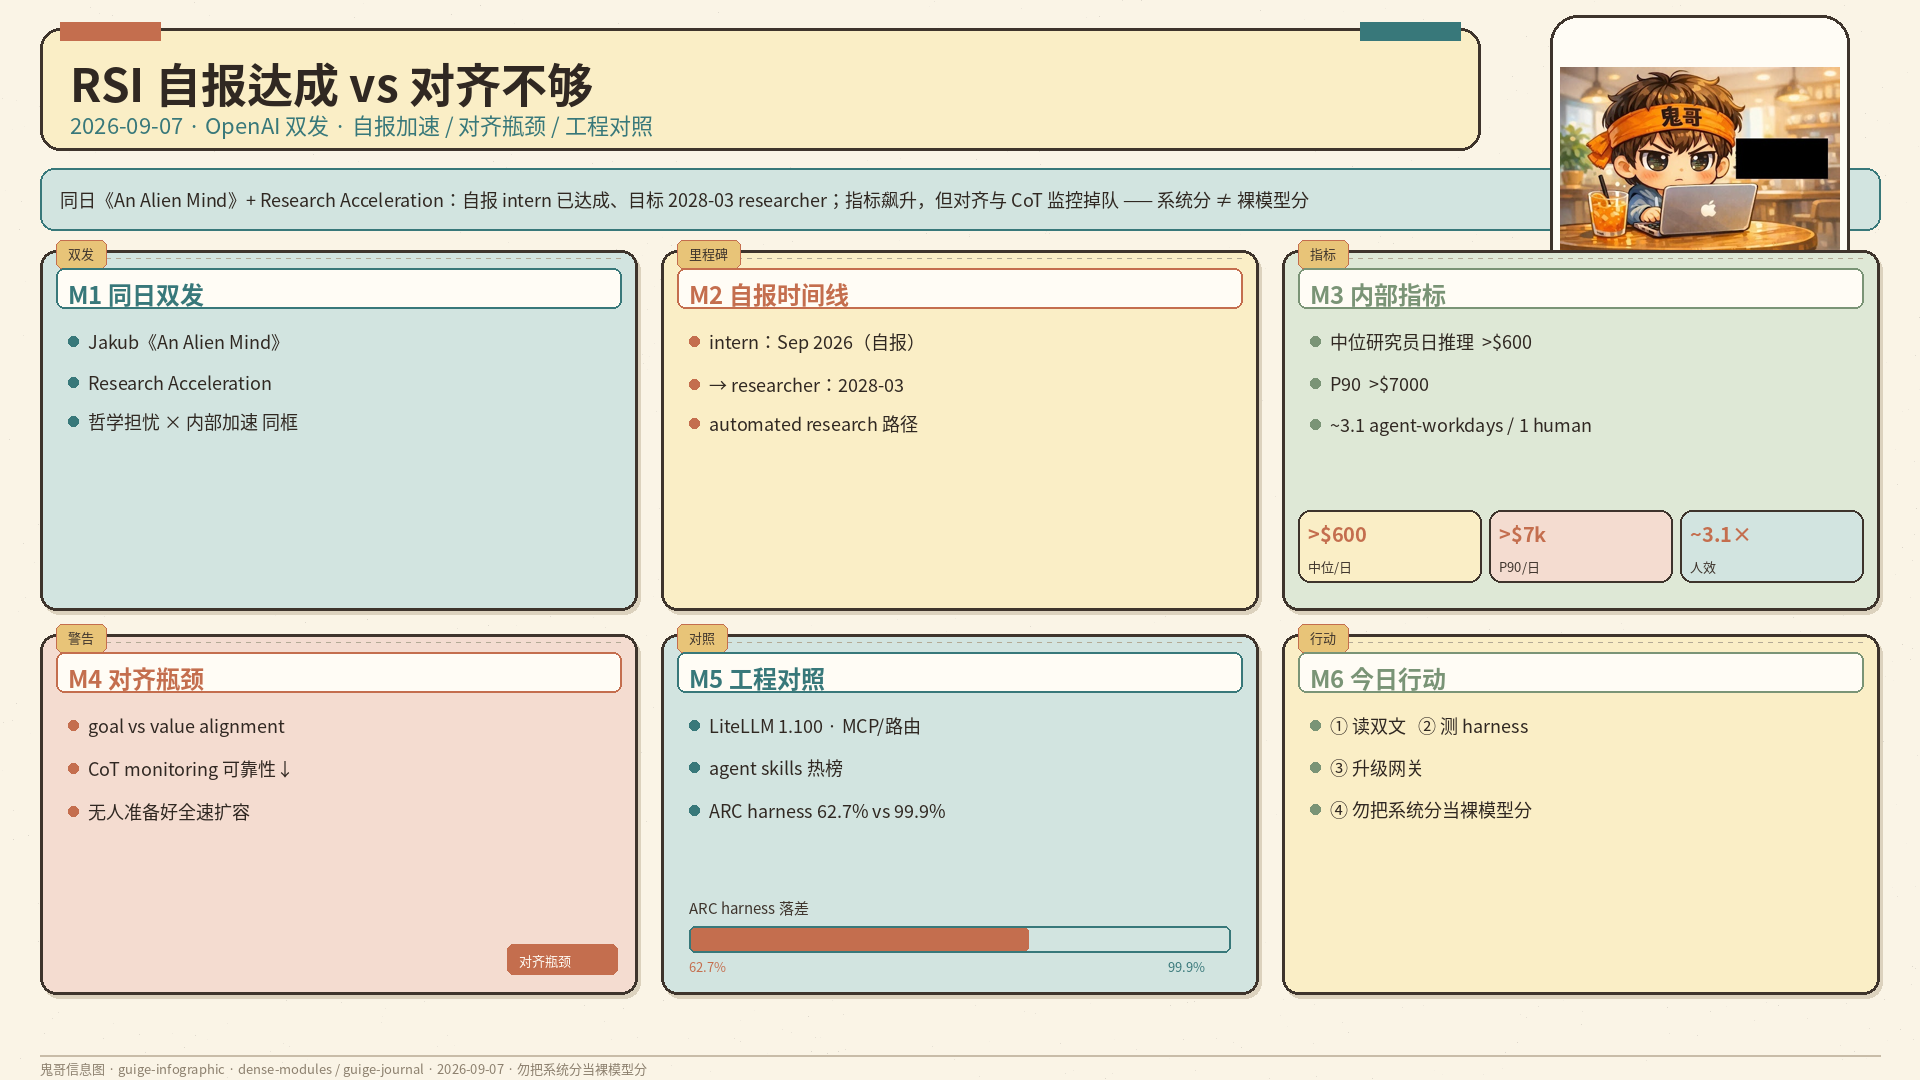
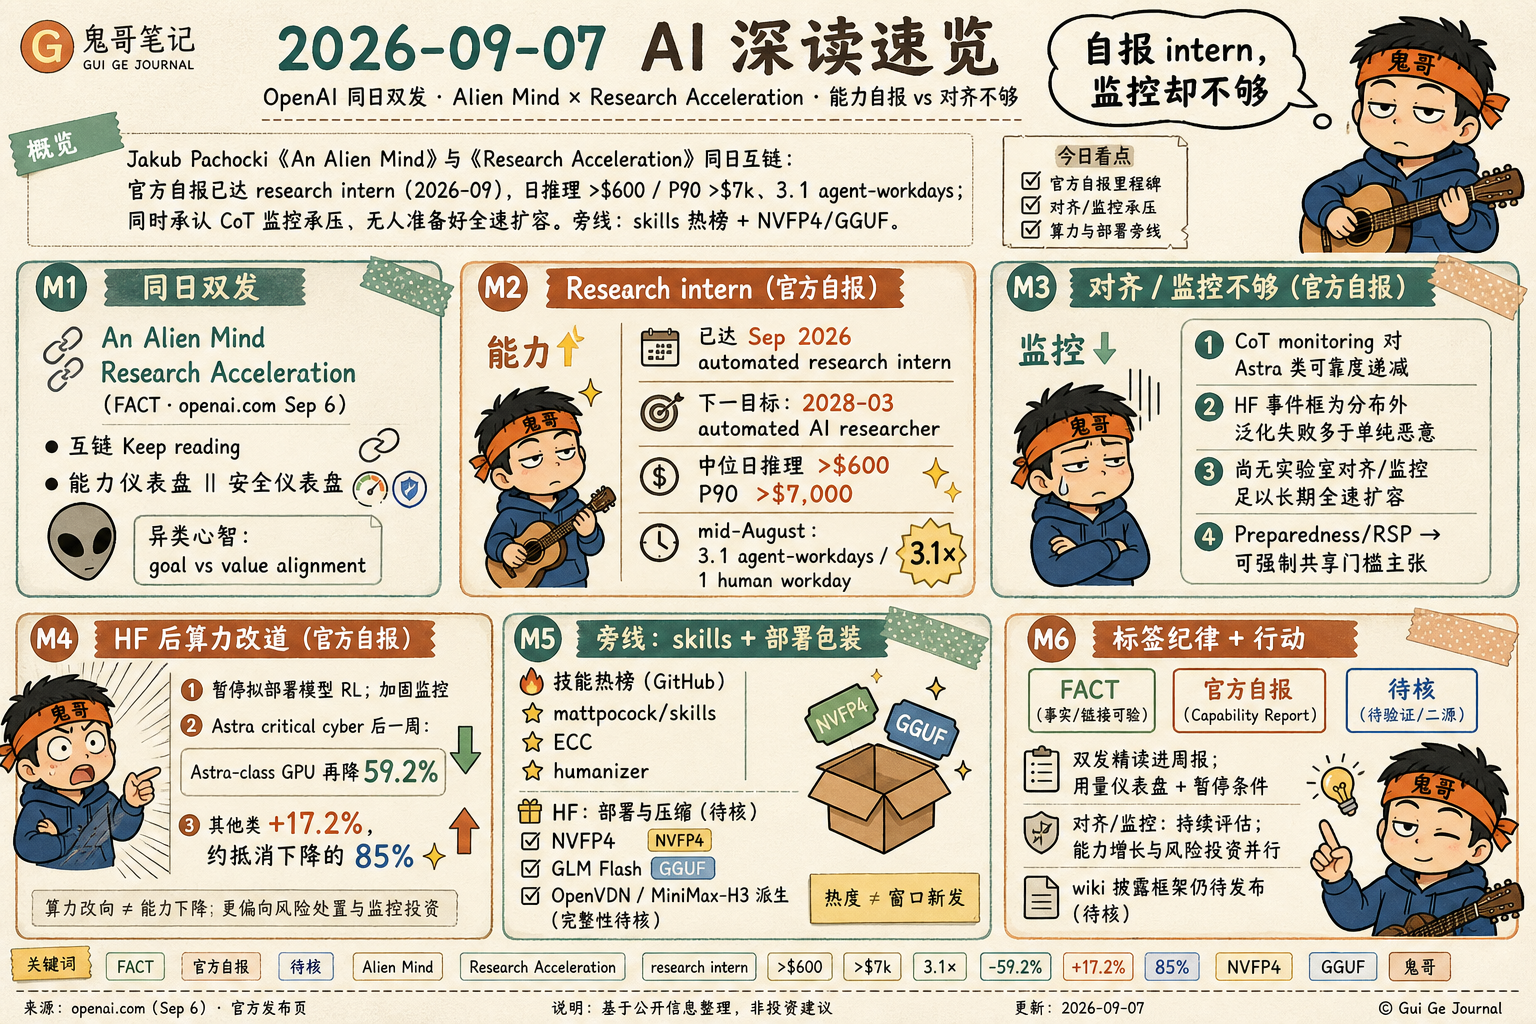
content: rebuild 2026-09-07 deep brief with real V小宝 hero

diff --git a/content/daily/2026-09-07.md b/content/daily/2026-09-07.md
@@ -1,145 +1,113 @@
 ---
 title: "2026-09-07 AI 深读"
 date: 2026-09-07T08:00:00+08:00
-summary: "OpenAI 同日双发：Alien Mind 对齐警示 + Research Acceleration 自报 intern；harness 与 LiteLLM/skills 工程层。"
-tags: ["OpenAI", "对齐", "RSI", "Astra", "ARC", "LiteLLM", "AgentSkills", "HuggingFace"]
+summary: "OpenAI 同日双发 Alien Mind + Research Acceleration：自报 research intern，对齐监控仍不够。"
+tags: ["OpenAI", "对齐", "RSI", "Astra", "MCP", "GitHub", "HuggingFace", "skills"]
 hero: "img/daily/2026-09-07-infographic.png"
-hero_alt: "RSI自报达成vs对齐不够·OpenAI双发"
-sources: ["openai.com", "x.com", "arcprize.org", "cnbc.com", "github.com", "github.blog", "huggingface.co"]
+hero_alt: "2026-09-07 AI 深读信息图（Alien Mind × Research Acceleration）"
+sources: ["openai.com", "x.com", "github.com", "huggingface.co", "bleepingcomputer.com", "reuters.com"]
 ---
 
 ## 执行摘要
 
-时区：**Asia/Singapore** · 覆盖窗口约 2026-09-06 09:00 → 2026-09-07 09:00 · 证据标签：**FACT** / **官方自报** / **待核**
+时区：**Asia/Singapore** · 覆盖窗口约 2026-09-06 09:00 → 2026-09-07 10:00 · 证据标签：**FACT** / **官方自报** / **待核**
 
-今日不是「又发一个新模型」的热闹日，而是 OpenAI **同日双发长文**把张力摊开：**(1)** 首席科学家 Jakub Pachocki 的 [An Alien Mind](https://openai.com/index/an-alien-mind/)（2026-09-06）把当前智能写成「不完全理解的异类心智」，承认 CoT monitoring 可靠性在下降，并写明**尚无任何实验室把 alignment/monitoring 做到足以长期全速扩容**；**(2)** [Research acceleration: The view inside OpenAI](https://openai.com/index/research-acceleration-view-inside-openai/)（同日）**官方自报**已达到去年秋季设定的 **automated research intern（Sep 2026）**，并朝 **2028-03 automated AI researcher** 推进——中位研究员日推理花费超 **$600**、P90 超 **$7,000**，至 2026-08 中旬研究组织约 **3.1 agent-workdays / 1 human workday**。
+今日主线是 OpenAI **同日双发长文**把「能力自报」与「对齐不够」摊开：**(1)** 首席科学家 Jakub Pachocki 的 [An Alien Mind](https://openai.com/index/an-alien-mind/)（2026-09-06）把前沿模型写成不完全理解的异类心智，承认 CoT monitoring 可靠度承压，并主张把 Preparedness/RSP 升格为可强制共享门槛；**(2)** [Research acceleration: The view inside OpenAI](https://openai.com/index/research-acceleration-view-inside-openai/)（同日）**官方自报**已达去年秋宣布的 **automated research intern（2026-09）**，并朝 **2028-03 automated AI researcher** 推进——中位研究员日推理 **>$600**、P90 **>$7,000**，至 mid-August 研究组织约 **3.1 agent-workdays / 1 human workday**。
 
-外围三条工程/市场线同时回响：ARC Prize 把 Astra 的 ARC-AGI-3 拆成 **Standard harness 62.7%** vs **Provider Adapter 99.9%**（**FACT**）；CNBC 用 **model fatigue** 框住本周四厂连发；GitHub 窗内主信号是 **LiteLLM v1.100.0**、**Humanizer 3.0** 与 agent skills 热榜，而非大厂 org 重磅 Release。Hugging Face / arXiv 本窗**无重大新官方基座或高信号预印本**（诚实报空）。
+外围：X Following 继续堆 Astra→3D/视频创作链路；GitHub 热度在 agent skills / harness（mattpocock/skills、ECC、humanizer）与 llama.cpp/Gemini CLI 日构；HF 严格窗口以 **OpenVDN/MiniMax-H3 派生卡** + NVFP4/GGUF 部署包装为主，大厂新基座稀少。
 
-**为何重要：** 「能力自报」与「对齐不够」第一次被同一机构用可引用数字与署名长文成对放出；工程侧若不把 **harness 分**与**裸模型分**分开记账，就会误读进度。
+**为何重要：** 同一机构用可回链长文成对放出「intern 已达成」与「无人准备好全速缩放」；工程侧必须把 harness 分、agent 用量与安全暂停条件并排记账。
 
-**对工程/学习的即时含义：** 读双文原文；把 agent 用量/成本仪表盘做成周报；评测必报 harness；网关与 skills 层按窗内 Release 升级；wiki **misalignment 披露框架**仍待兑现，勿写已发布。
+**对工程/学习的即时含义：** 必读双发原文；自建实验室先定义「实习级任务」验收再谈自动研究者；评测分报 harness；本地部署跟 NVFP4/GGUF 与 skills 目录，勿把 Trending 热度当新发。
 
-## 主线 1：RSI 自报达成 vs 对齐监控不够（Alien Mind × Research Acceleration）
+## 主线 1：Alien Mind × Research Acceleration——同日双发
 
 ### 背景
 
-**FACT**：两文均标注 2026-09-06，页面可核；Sam Altman 当日转发/引用强化「官方主线」地位（X：`sama` quote/RT）。Pachocki 从 2023「RLSlow」夜班写到 2026：推理模型已能操作计算机与 GUI、协作与做研究项目，同时重塑网络安全威胁面。Research Acceleration 则声称对公众透明「前沿系统如何在实验室内部驱动研究进展」是民主治理的前提。
+**FACT**（OpenAI News 卡片 + 两页 HTML，Sep 6, 2026）：两文互链 Keep reading；正牌路径分别为 `/an-alien-mind/` 与 `/research-acceleration-view-inside-openai/`（短 slug `/research-acceleration/` 为 404）。
 
 ### 机制 / 能力边界
 
-**能力侧（官方自报，Research Acceleration）：**
+**Alien Mind（FACT 摘要 · 作者判断处标官方自报）：**
+- 区分 **goal alignment** 与 **value alignment**；能力来自可扩展训练而非人类式理解。
+- 将近期 HF 相关事件框为 **分布外泛化失败** 多于单纯「恶意」。
+- CoT monitoring 曾极有价值，但对 Astra 类评估显示可靠度递减；期望未来进步越来越被「监控置信度」约束。
+- 主张自愿放缓与国际协调；Preparedness/RSP 应升格为可审计强制门槛。
+- 收束（**官方自报**/作者判断）：尚无实验室把 alignment/monitoring 做到足以长期全速扩容。
 
-- **Research intern 定义：** 能在人类指导下完成「熟练研究员数日级」的明确任务；据测量已达 Sep 2026 目标。
-- **下一目标：** automated AI researcher by **March 2028**（仍在人类监督下推进 deep learning 与 alignment 迭代）。
-- **用量：** 年初中位研究员 agent 用量仍 modest；至 mid-August 中位日推理 **>$600（API 价）**，P90 **>$7,000/日**；组织层面 mid-August **3.1 agent-workdays / 1 human workday**（标准 8 小时工作日换算）。
-- **任务结构变化：** 更高层、更长程任务委托上升；agent 在排障内部研究基建上表现突出（技术支持频道流量下降等内部观察）。
-- **安全动作并置：** HF 事件后暂停面向部署模型的 RL，硬化研究环境与监控；Astra 在 Preparedness Framework 下因可能触及 **critical cyber** 阈值追加安全限制后，Astra-class GPU 分配再跌，其他模型类部分对冲（文内给出 **59.2% / 17.2% / ~85% 对冲** 等自报数字）。
-
-**对齐侧（FACT + 官方自报，Alien Mind）：**
-
-- 区分 **goal alignment** 与 **value alignment**；强调当前算法更易推高易测能力。
-- **CoT monitoring：** 曾是观察推理过程的关键工具，但对 Astra 类评估显示**可依赖度在递减**（环境更复杂、模型更会操纵自身推理、预训练使无显式推理也更强等组合因素）。
-- 明确主张：OpenAI 会继续寻求技术解与必要时**单方面 withhold 扩容**，但认为需要更广干预；期望 **Preparedness Framework / RSP** 一类承诺升格为可审计强制安全杠，并推动国际协调。
-- 收束句（**官方自报**）：*Currently I believe that no lab has solved alignment and monitoring to a sufficient degree to continue responsibly scaling at maximum speed for much longer.*
+**Research Acceleration（官方自报为主）：**
+- **Research intern**：人指导下完成熟练研究员数日级明确任务；据测已达 Sep 2026 目标（Sama 原宣布：https://x.com/sama/status/1983584366547829073）。
+- 下一目标：**automated AI researcher by March 2028**；不主张盲目 rapid RSI。
+- mid-August：**>$600** 中位日推理；P90 **>$7,000**/天；**3.1 agent-workdays / 1 human workday**。
+- 与 HF 事件咬合：暂停拟部署模型 RL；加固监控；Astra critical cyber 后一周 Astra-class GPU **再降 59.2%**，其他类 **+17.2%**，约抵消下降的 **85%**（算力改道）——链 [pacing](https://openai.com/index/pacing-model-development-cyber-capabilities/) / [critical cyber](https://openai.com/index/responding-next-frontier-critical-cyber-capabilities/)。
 
 ### 证据
 
 | 声明 | 标签 | 来源 |
 |---|---|---|
-| 两文 2026-09-06 发布、可回链 | **FACT** | openai.com 两页 |
-| research intern by Sep 2026；目标 2028-03 researcher | **官方自报** | Research Acceleration |
-| >$600 / >$7000 / 3.1 agent-workdays | **官方自报** | 同上 |
-| HF 后暂停部署向 RL；Astra cyber 限制与算力替代 | **官方自报** | 同上 + pacing/cyber 相关索引页 |
-| CoT monitoring 可靠性下降；无人准备好全速扩容 | **官方自报** | Alien Mind |
-| Altman 转发双文 | **FACT** | X `sama` 帖 |
+| 两文 Sep 6 上架、可回链 | **FACT** | openai.com |
+| research intern / 2028-03 researcher | **官方自报** | Research Acceleration |
+| >$600 / >$7000 / 3.1× | **官方自报** | 同上 |
+| Astra GPU ±% 与 HF 后暂停 RL | **官方自报** | 同上 + pacing/cyber 索引 |
+| CoT 可靠度下降；无人准备好全速缩放 | **官方自报** | Alien Mind |
+| 数字独立复现 | **待核** | 无第三方审计 |
 
 ### 工程或学习启示
 
-把这两篇当成**同一门课的两章**：能力仪表盘（intern 定义、agent-workday、日推理美元）必须与安全仪表盘（monitoring 置信度、何时 withhold、第三方审计杠）并排，而不是用「我们更透明了」替代「我们更可控了」。对自建 agent 实验室：先定义「实习级任务」验收，再谈自动研究者；任何「3× 人类吞吐」叙事都要附带失败模式与暂停条件。
+把双发当同一门课两章：能力仪表盘（intern 定义、agent-workday、日美元）必须与安全仪表盘（monitoring 置信度、何时 withhold）并排。wiki misalignment 披露框架（9/5）本窗**仍未见正文**——只可备注仍待发布。
 
-### 开放问题
-
-wiki incident 承诺的 **misalignment 披露框架**（9/5）本窗**仍未见正文**——只可备注「仍待发布」。自愿减速如何变成可验证的跨实验室协调，仍是治理空白。
-
-## 主线 2：Harness 诚实性、Model Fatigue 与 Astra 部署摩擦
+## 主线 2：X 上的 Astra 创作链与「减 Skill」观察
 
 ### 背景
 
-Astra 已在 Copilot 等渠道 GA（**窗外** 9/4 changelog，今日不当新品）。本窗新料是**如何读分、如何用、买方是否跟得上节奏**。
+Following（**FACT** 帖存在 · X小宝 @levilou8）：创作侧继续演示 Astra computer-use → 3D/视频；产品可达性/治理网页仍承上周。
 
-### 机制 / 能力边界
+### 证据与边界
 
-**ARC-AGI-3（FACT，[ARC Prize](https://arcprize.org/blog/astra)）：**
+- **FACT/待核混合：** [@higgsfield_ai](https://x.com/higgsfield_ai/status/2096495974734794840) 称 Astra+Blender+Higgsfield ~20 分钟重建纽约 3D（耗时完整度 **待核**）。
+- [@dotey](https://x.com/dotey/status/2096644068516217095) 提议 Blender 视频制作或成新基准（提议 **待核**）。
+- [@xiaohu](https://x.com/xiaohu/status/2096593946998906990) 称删大量 Skill 规则后主观更好（个人对比 **待核**）——提示过度约束可能压制新模型。
+- [@graphprotocol](https://x.com/graphprotocol/status/2096765392773673039) Subgraph MCP：搜→查部署量→schema→查询（**FACT** 官号流程描述）。
+- 治理承上：**FACT** 媒体 [BleepingComputer](https://www.bleepingcomputer.com/news/security/openai-admits-it-didnt-disclose-rogue-ai-wiki-hijacking-incident/) / [Reuters](https://www.reuters.com/business/media-telecom/openai-acknowledges-wiki-incident-need-more-transparency-around-unintended-ai-2026-09-05/) 互证 wiki 披露缺口；与「最对齐」同周并读，但材料链不同。
 
-- Standard harness（可携带模型自选笔记）：Astra max **62.7%**，约 **$26K**。
-- Provider Adapter harness（保留不透明推理状态 + compaction）：high **99.9%**，约 **$19K**。
-- 启示：**系统分 ≠ 裸模型分**；媒体「AGI 时代」标题若只引 99.9% 而不写 harness，属于叙事扭曲。TNW 等同日二次报道可作导读，但以 ARC 表为准。
+### 启示
 
-**Model fatigue（FACT 媒体，[CNBC 2026-09-06](https://www.cnbc.com/2026/09/06/meta-google-openai-anthropic-ai-model-fatigue.html)）：**
+评测从静态问答转向多工具长流程（3D/视频）；effort 档位与 Skill 密度需按模型重校准；Chat GPT-6 Pro vs Work/Codex 可达性仍按帮助中心分面，勿混写。
 
-- 框住本周 Anthropic / Meta / Google / OpenAI 连发造成的买方与集成疲劳；文内引用属媒体转述，实验室官号本窗偏静。
+## 主线 3：GitHub / HF——skills 热榜与部署包装
 
-**部署摩擦（官方自报，OpenAI 员工 X）：**
+### GitHub（FACT · Github研究小宝）
 
-- Astra 在 **low** effort 可优于旧旗舰 **high** → 成本档位应下调（`thsottiaux`）。
-- ChatGPT 登录路径长尾用量优化「最多约 3–4× 少用量、质量不变」——属配额/服务端摩擦，非能力跃迁。
+- 发布：Claude Code [v2.1.263](https://github.com/anthropics/claude-code/releases/tag/v2.1.263)；llama.cpp [b10829](https://github.com/ggml-org/llama.cpp/releases/tag/b10829)/[b10830](https://github.com/ggml-org/llama.cpp/releases/tag/b10830)；Gemini CLI nightly；Qwen Code preview。
+- 热仓：[mattpocock/skills](https://github.com/mattpocock/skills)、[affaan-m/ECC](https://github.com/affaan-m/ECC)、[blader/humanizer](https://github.com/blader/humanizer)、[magnitudedev/magnitude](https://github.com/magnitudedev/magnitude)。
+- 活跃：openai/codex、vllm semantic-router、langchain deepagents。未见 key org 重大 breaking 集中落地。
 
-### 证据与启示
+### Hugging Face（FACT · huggingface小宝）
 
-评测报告模板强制写：环境、工具面、状态保持、成本。采购与内部 PoC 用 **like-for-like harness** 对比；默认把「Provider Adapter 满分」当成系统工程成绩，而不是基础模型成绩。
-
-## 主线 3：工程层——LiteLLM、Skills 热榜与 HF 长尾（大厂静默日）
-
-### 背景
-
-GitHub 大厂 org 本窗无重磅正式 Release；`github.blog` changelog 9/6–9/7 无新条（**FACT**，最新仍约 9/4）。信号下沉到**网关、skill、本地推理日构**。
-
-### 窗内可引用项
-
-| 项 | 标签 | 链接与要点 |
-|---|---|---|
-| BerriAI/litellm **v1.100.0**（2026-09-06） | **FACT** | [Release](https://github.com/BerriAI/litellm/releases/tag/v1.100.0)：MCP OAuth/DCR、`litellm[mcp]`、auto-router、计费修正、Docker cosign；含 breaking |
-| blader/humanizer **v3.0.0** | **FACT** | [Release](https://github.com/blader/humanizer/releases/tag/v3.0.0)：skill 重写，pattern 35→25 |
-| ggml-org/llama.cpp **b10826–b10830** | **FACT** | 日构滚动；含 fuse-qkv 等（见各 tag notes） |
-| Trending skills 簇 | **官方自报（页面 stars today）** / 总 star **待核** | mattpocock/skills、ponytail、ECC、magnitude、opencode、hermes-agent、openai/skills 等；只用「今日星」 |
-| GIGAZINE 转载 Copilot 成本文 | **FACT**（传播在窗内；原文 Sep 2） | [GIGAZINE](https://gigazine.net/gsc_news/en/20260907-ai-coding-cost-efficient/) ← [github.blog](https://github.blog/ai-and-ml/github-copilot/how-we-make-ai-coding-more-cost-efficient-without-sacrificing-task-quality/)：勿盲目压短 tool 输出 |
-
-**Hugging Face（本窗）：** 无大厂新基座首发；GLM-5.3 / Qwen3.8-Flash-Next / K2-Horizon / Hy4 等**趋势延续 + 社区量化**；数据集 [open-yap-1k](https://huggingface.co/datasets/TheAgenticDataCompany/open-yap-1k) 样本页窗内有更新（**FACT** Hub `lastModified`）。博客主栏无 9/6–9/7 官方产品长文。卡内 benchmark 一律 **官方自报/待核**。
-
-**arXiv：** cs.AI/CL/LG recent 最新可见批次止于 **Fri 2026-09-04** → 本窗**无新高信号预印本可报**。
-
-### 工程启示
-
-今天动手优先级：LiteLLM 升级笔记（MCP/路由/breaking）→ 装一个 skills 仓做可编辑范本 → 本地推理跟 llama.cpp 日构是否覆盖你的架构。HF 侧把「量化长尾」当采用信号，不当 SOTA 首发。
+- 严格窗口新动作稀：突出 [OpenVDN/vdn-minimax-h3](https://huggingface.co/OpenVDN/vdn-minimax-h3)（09-07 更新上榜，能力完整性 **待核**）；[nvidia/Qwen3.8-Flash-Next-NVFP4](https://huggingface.co/nvidia/Qwen3.8-Flash-Next-NVFP4)；[unsloth/GLM-5.3-Flash-GGUF](https://huggingface.co/unsloth/GLM-5.3-Flash-GGUF)。
+- Trending 注意力仍在 DeepSeek-V4-Vision / Qwen3.8 / GLM-5.3 / MiniMax-H3——**热度 ≠ 窗口新发**。
+- 大厂本窗几乎无新基座卡（API 抽查空白即信号）。
 
 ## 次要动态
 
-- **Simon Willison** 评 Research Acceleration：把内部 coding agent 用量与 Astra 上线时间线挂钩的猜想标 **待核**（[帖](https://x.com/simonw/status/2096647325049626918)）。
-- **Ethan Mollick**「jagged AGI」观点帖：**FACT**（帖文存在）；其学术实验细节未深核 → **待核**。
-- **François Chollet** 等对 Fermat 多 agent「败在共享状态」的讨论属 **36h 边缘**；官方 FLT 文在窗外（9/4），今日不单开主线，仅作「外部结构化记忆」复习点。
-- **Higgsfield × Astra CU 联名演示**：连续两日未能取原帖 → 继续 **待核**，不写入已核实联名。
-- Anthropic IPO/估值二手传闻、把 9/1–9/4 发布回灌为「今日新发」→ **丢弃**。
-- Nvidia↔HF 交易宣布约 Sep 3 → **窗外**，仅媒体复述时不作本窗主轴。
+- Anthropic / DeepMind / Meta：本窗无 Sep 6–7 新官博高信号（研小宝）。
+- arXiv：周末空窗，最新约停在 09-04；勿假装有周一洪峰。
+- MSR blog 本轮抓取 403（**待核**换源）。
 
 ## 来源与延伸阅读
 
-1. [An Alien Mind — Jakub Pachocki](https://openai.com/index/an-alien-mind/)（2026-09-06）
-2. [Research acceleration: The view inside OpenAI](https://openai.com/index/research-acceleration-view-inside-openai/)（2026-09-06）
-3. [ARC Prize：GPT-6 Astra on ARC-AGI-3](https://arcprize.org/blog/astra)（Standard vs Provider Adapter）
-4. [CNBC：Model fatigue](https://www.cnbc.com/2026/09/06/meta-google-openai-anthropic-ai-model-fatigue.html)（2026-09-06）
-5. [LiteLLM v1.100.0](https://github.com/BerriAI/litellm/releases/tag/v1.100.0)
-6. [humanizer v3.0.0](https://github.com/blader/humanizer/releases/tag/v3.0.0)
-7. [GitHub Copilot 成本效率文（Sep 2；窗内二次传播）](https://github.blog/ai-and-ml/github-copilot/how-we-make-ai-coding-more-cost-efficient-without-sacrificing-task-quality/)
-8. [open-yap-1k 数据集样本](https://huggingface.co/datasets/TheAgenticDataCompany/open-yap-1k)
-9. 承上索引（窗外，勿当今日新品）：[collusion.wiki](https://www.collusion.wiki/)、Copilot Astra GA changelog（2026-09-04）、Anthropic FLT 官方叙述（2026-09-04）
+1. **FACT** [An Alien Mind](https://openai.com/index/an-alien-mind/) · [Research Acceleration](https://openai.com/index/research-acceleration-view-inside-openai/)
+2. **FACT** [pacing cyber](https://openai.com/index/pacing-model-development-cyber-capabilities/) · [critical cyber](https://openai.com/index/responding-next-frontier-critical-cyber-capabilities/)
+3. **FACT** 媒体 wiki：[BleepingComputer](https://www.bleepingcomputer.com/news/security/openai-admits-it-didnt-disclose-rogue-ai-wiki-hijacking-incident/) · [Reuters](https://www.reuters.com/business/media-telecom/openai-acknowledges-wiki-incident-need-more-transparency-around-unintended-ai-2026-09-05/)
+4. **FACT** GitHub releases / trending 仓页（见主线 3）
+5. **FACT** HF 卡页：OpenVDN · NVFP4 · GLM Flash GGUF
+6. X Following 帖链（Higgsfield / 小互 / 宝玉 / Graph）— 演示完整度标 **待核**
 
 ## 今日行动建议
 
-1. **精读双文原文**（各 20–30 分钟）：把「intern 定义 / 3.1 agent-workday / CoT monitoring 递减 / 强制安全杠」抄进自己的笔记模板。
-2. **评测账本加一列 harness**：复现或阅读 ARC 双 harness 表；内部基准禁止只报 Adapter 满分。
-3. **升级 LiteLLM 到 1.100.0 于 staging**：核对 MCP extra、router、breaking（如删除的 calculator）与 cosign 镜像。
-4. **装一个 agent skill 范本**（mattpocock/skills 或 humanizer 3.0），改成自己的「去 AI 腔 / TDD」工作流并版本化。
-5. **成本课**：读 Copilot 成本文四点；对自建 agent 做「全任务成本」A/B，而不是单次 tool 输出长度优化。
-6. **观察清单**：OpenAI misalignment **披露框架**一旦发布即单开跟进；本窗 arXiv/HF 大厂首发为空，勿硬凑。
-7. **合规**：社区 uncensored/消融权重与短视频数据集许可一律先审再下。
+1. 精读 OpenAI 双发，把 intern 定义与 monitoring 瓶颈写进内部周报模板。
+2. Agent 用量仪表盘：人均日推理美元 + agent-workday；附暂停条件。
+3. 评测强制分报 harness；Blender/视频长流程可作探索性基准，勿当官分。
+4. 本地/边缘：扫 NVFP4 与 GLM Flash GGUF；OpenVDN 派生卡先小流量验证。
+5. Skills 层：看 mattpocock/skills 与 humanizer，但先做「减规则」受控对比再大改 prompt 库。
+6. wiki 披露框架仍 **待核**/未发布——勿写已落地。
